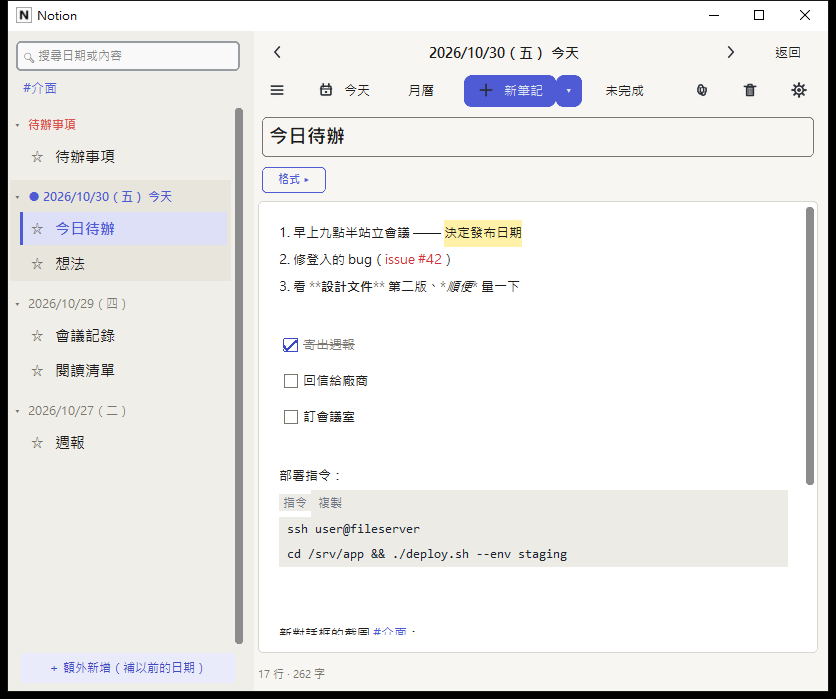
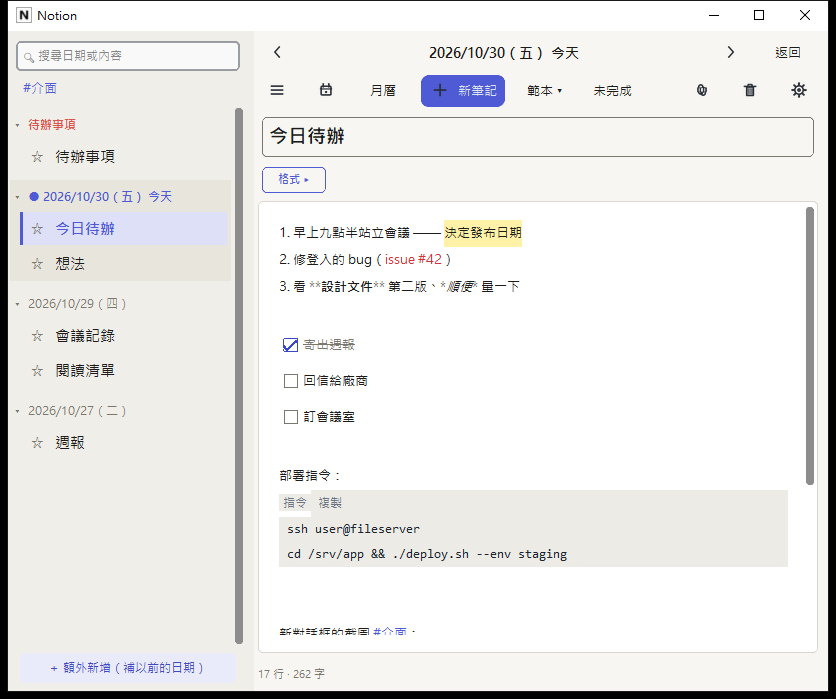
Notion 1.0.9：工具列範本鈕獨立、今天只留圖示、預設視窗加寬
內容：「新筆記」旁黏著的藍色 ▾ 改成獨立的「範本 ▾」文字鈕；「今天」只留圖示；月曆／範本／未完成鈕縮窄；預設視窗 720→760 寬，右邊的設定齒輪不再被擠出；版號維持 1.0.9
AI 協助：Claude Code（範圍：工具列版面）
審閱：Peter Liu（已審閱並修改）

Changed region(s): [[0.4043, 0.0901, 0.7775, 0.1502]]

diff --git a/Notion/personalnote/ui/main_window.py b/Notion/personalnote/ui/main_window.py
@@ -190,14 +190,14 @@ class MainWindow(ctk.CTk):
         act.grid(row=1, column=0, sticky="ew", pady=(6, 8))     # 跟上面日期那排、下面標題框都留白（Peter：功能之間的間距）
         act.grid_columnconfigure(6, weight=1)
         mk(act, "menu", self.toggle_sidebar, tip=lambda: _("收起／展開左欄") + f"（{self.keymap.key_of('sidebar')}）").grid(row=0, column=0, padx=(0, 6))
-        mk(act, "today", lambda: self.go_day(date.today()), text=_("今天"), width=64, tip=_("回到今天")).grid(row=0, column=1, padx=5)
-        mk(act, "cal", self.show_calendar, text=_("月曆"), width=64,
+        mk(act, "today", lambda: self.go_day(date.today()), tip=lambda: _("回到今天") + f"（{self.keymap.key_of('today')}）").grid(row=0, column=1, padx=5)
+        mk(act, "cal", self.show_calendar, text=_("月曆"), width=56,
            tip=lambda: _("月曆：哪幾天有筆記、每天用多久") + f"（{self.keymap.key_of('calendar')}）").grid(row=0, column=2, padx=5)
-        mk(act, "plus", lambda: self.new_note(date.today()), text=_("新筆記"), width=92, plain=False,
-           fg_color=T.ACCENT, hover_color=T.ACCENT_HOVER, tip=lambda: _("今天加一張") + f"（{self.keymap.key_of('new_note')}）").grid(row=0, column=3, padx=(6, 0))
-        mk(act, "tmpl", self.template_menu, text="▾", width=26, plain=False, fg_color=T.ACCENT, hover_color=T.ACCENT_HOVER,
-           tip=_("用範本開一張新筆記")).grid(row=0, column=4, padx=(0, 6))
-        mk(act, "todo", self.show_todo_list, text=_("未完成"), width=64,
+        mk(act, "plus", lambda: self.new_note(date.today()), text=_("新筆記"), width=84, plain=False,
+           fg_color=T.ACCENT, hover_color=T.ACCENT_HOVER, tip=lambda: _("今天加一張") + f"（{self.keymap.key_of('new_note')}）").grid(row=0, column=3, padx=5)
+        mk(act, "tmpl", self.template_menu, text=_("範本 ▾"), width=58,
+           tip=_("用範本開一張新筆記（會議紀錄、週報…）")).grid(row=0, column=4, padx=5)
+        mk(act, "todo", self.show_todo_list, text=_("未完成"), width=58,
            tip=lambda: _("未完成清單：所有筆記裡還沒打勾的") + f"（{self.keymap.key_of('todo_list')}）").grid(row=0, column=5, padx=5)
         # 復原／重做搬到內文上方的格式列（文字按鈕，箭頭圖示 Peter 說看不懂），這一排才放得下 640 寬
         mk(act, "attach", self.attach_file, tip=_("插入檔案（複製一份到 attachments）")).grid(row=0, column=7, padx=5)

diff --git a/Notion/personalnote/changelog.py b/Notion/personalnote/changelog.py
@@ -5,8 +5,10 @@ from __future__ import annotations
 
 ENTRIES: tuple[tuple[str, tuple[str, ...], tuple[str, ...]], ...] = (
     ("1.0.9",
-     ("啟動畫面改成不透明白底（圓角外的透明邊會混成粉紅色）；色碼集中到 theme.py 並加檢查",),
-     ("Splash screen is now opaque white (transparent corners blended into a pink fringe); colour codes centralised in theme.py with a check",)),
+     ("啟動畫面改成不透明白底（圓角外的透明邊會混成粉紅色）；色碼集中到 theme.py 並加檢查",
+      "工具列的範本改成獨立的「範本 ▾」文字鈕；「今天」只留圖示；預設視窗寬一點，右邊的設定齒輪不會被擠掉"),
+     ("Splash screen is now opaque white (transparent corners blended into a pink fringe); colour codes centralised in theme.py with a check",
+      "Templates get their own plain “Template ▾” toolbar button; “Today” is icon-only; wider default window so the settings gear is not pushed off")),
     ("1.0.8",
      ("淺色主題改成白底黑字、藍色選中；工具列按鈕之間與上下留白拉開",),
      ("Light theme is now white background, black text, blue selection; more spacing between toolbar buttons and rows",)),

diff --git a/Notion/personalnote/state.py b/Notion/personalnote/state.py
@@ -17,7 +17,7 @@ STATE_FILE = "state.json"
 
 @dataclass(frozen=True)
 class AppState:
-    geometry: str = "720x640+240+120"   # tkinter 格式 WxH+X+Y；便利貼大小，不是全螢幕（太窄工具列圖示、日期標題會被截）
+    geometry: str = "760x640+240+120"   # tkinter 格式 WxH+X+Y；便利貼大小，不是全螢幕（太窄工具列圖示、日期標題會被截）
     sidebar_visible: bool = True
     sidebar_width: int = 240            # 左欄寬度（拖分隔線改的；範圍見 theme.SIDEBAR_MIN／MAX；預設跟 theme.SIDEBAR_WIDTH 一樣）
     sidebar_height: int = 220           # 左欄放下面時的高（拖分隔線改的；範圍見 theme.SIDEBAR_MIN_H／MAX_H）
